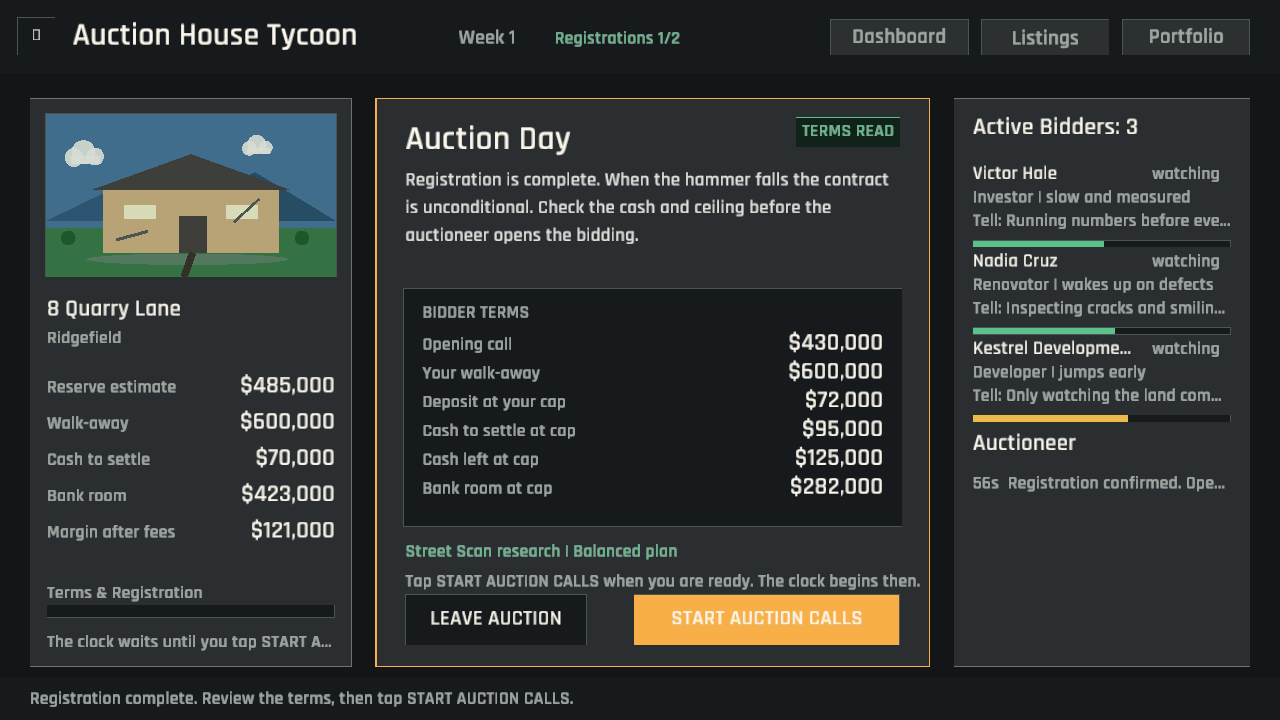
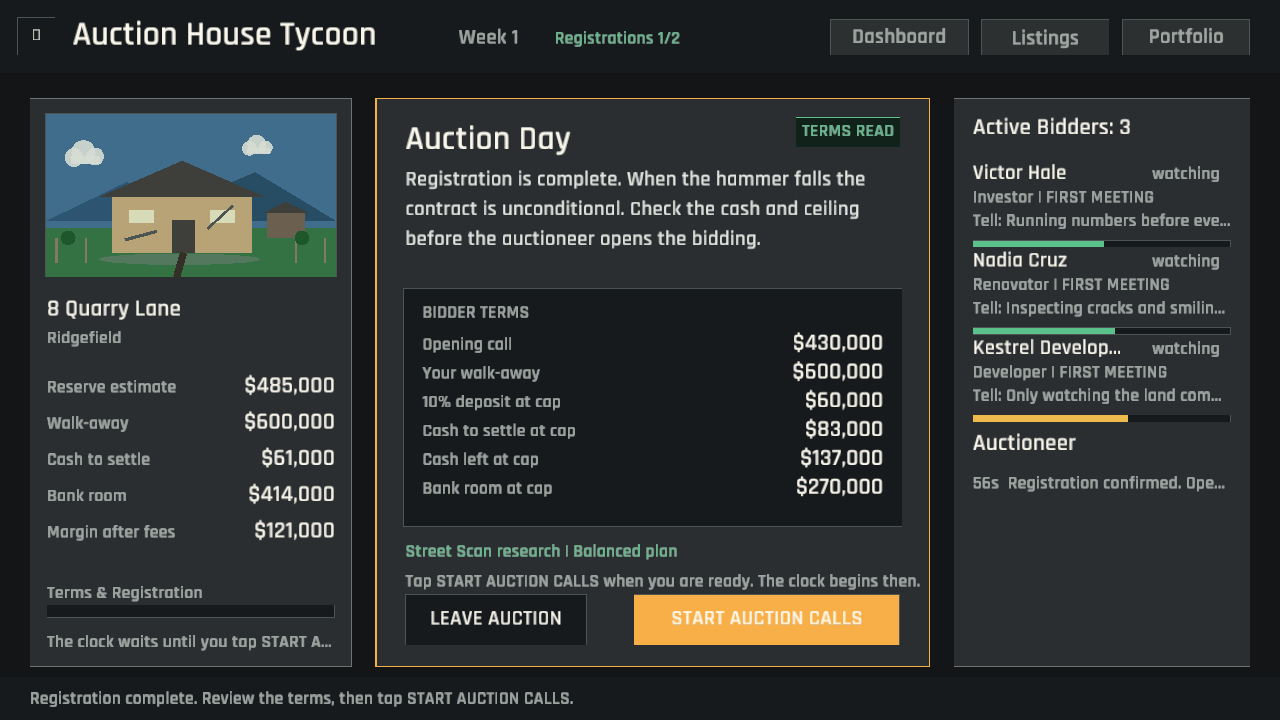
The hammer now demands the familiar ten-percent contract deposit (auction settlement terms)
Auction registration previously displayed a 12% deposit that felt like a balance abstraction instead of a recognizable contract term. Hammer settlement now separates a 10% deposit from the existing acquisition-cost allowance, updates cash and finance calculations everywhere, and keeps the end-to-end three-rental campaign route viable. The lobby and fully researched property captures verify the revised cash exposure before the player starts the calls.

diff --git a/src/screens/auction_lobby.rs b/src/screens/auction_lobby.rs
@@ -35,10 +35,7 @@ pub(super) fn draw_auction_day_lobby(
     let rows = [
         ("Opening call", auction.current_bid),
         ("Your walk-away", auction.player_walkaway_price),
-        (
-            "Deposit at your cap",
-            deposit(auction.player_walkaway_price),
-        ),
+        ("10% deposit at cap", deposit(auction.player_walkaway_price)),
         ("Cash to settle at cap", costs_at_cap),
         ("Cash left at cap", finance_at_cap.cash_after_settle),
         ("Bank room at cap", finance_at_cap.headroom_after),

diff --git a/src/sim/valuation/tests.rs b/src/sim/valuation/tests.rs
@@ -7,9 +7,9 @@ use std::collections::HashMap;
 
 #[test]
 fn purchase_cash_needed_includes_deposit_and_fees() {
-    assert_eq!(deposit(600_000), 72_000);
+    assert_eq!(deposit(600_000), 60_000);
     assert_eq!(purchase_fees(600_000), 23_000);
-    assert_eq!(cash_needed_to_settle(600_000), 95_000);
+    assert_eq!(cash_needed_to_settle(600_000), 83_000);
 }
 
 #[test]

diff --git a/src/sim/valuation.rs b/src/sim/valuation.rs
@@ -1,6 +1,6 @@
 use crate::model::{DealArchetype, MarketEvent, OwnedProperty, Player, Property};
 
-pub const DEPOSIT_RATE: f32 = 0.12;
+pub const DEPOSIT_RATE: f32 = 0.10;
 pub const BUYER_FEE_RATE: f32 = 0.038;
 pub const SELLING_FEE_RATE: f32 = 0.022;
 

diff --git a/GAME_DESIGN.md b/GAME_DESIGN.md
@@ -32,6 +32,7 @@ The three requirements prevent a single degenerate strategy. Cheap but poor asse
 - The vendor's true reserve stays hidden; research provides an estimate and the auctioneer announces when bidding crosses the real line.
 - One declared vendor bid may move the auction below reserve, but can never buy the property or put it on the market.
 - A pass-in moves to a private vendor counteroffer below reserve; accepting still requires finance and can still violate the player's walk-away.
+- A hammer win requires a 10% contract deposit plus separately visible acquisition costs; both are included in settlement cash and the deal remains unconditional.
 - ASSERT is theatre with asymmetric consequences: it discourages rational buyers and can provoke emotional ones.
 - First-home buyers stretch near the final call, renovators stretch for damaged upside in emotional rooms, and ego bidders stretch when counter-bidding becomes personal; each exposes a distinct live tell while rational bidders keep their ceiling.
 - Each auction owns a serialized random stream, so saving and reloading cannot reroll rival reactions or auctioneer timing.

diff --git a/README.md b/README.md
@@ -10,7 +10,7 @@ Winning an auction is not automatically good. The real challenge is knowing what
 - Inspect properties and estimate risk.
 - Read distinct compact, premium, and large-block facades as quickly as their numbers.
 - Set a walk-away price before bidding.
-- Review auction-day terms, deposit exposure, and finance before tapping START AUCTION CALLS.
+- Review unconditional auction-day terms, the 10% contract deposit, acquisition costs, and finance before tapping START AUCTION CALLS.
 - Raise normally, make one assertive jump, wait for a rival tell, or walk away in live auctions.
 - Watch different emotional rivals break their own limits for different reasons while investors, developers, and bargain hunters keep their ceilings.
 - Resume a saved live auction without rerolling the room, and survive a suspended browser tab without losing the clock.
